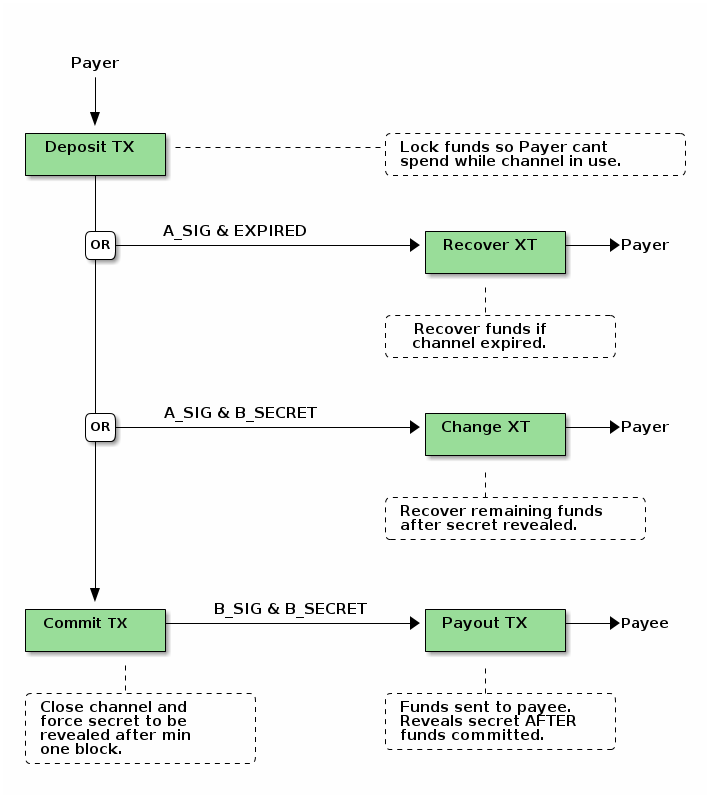
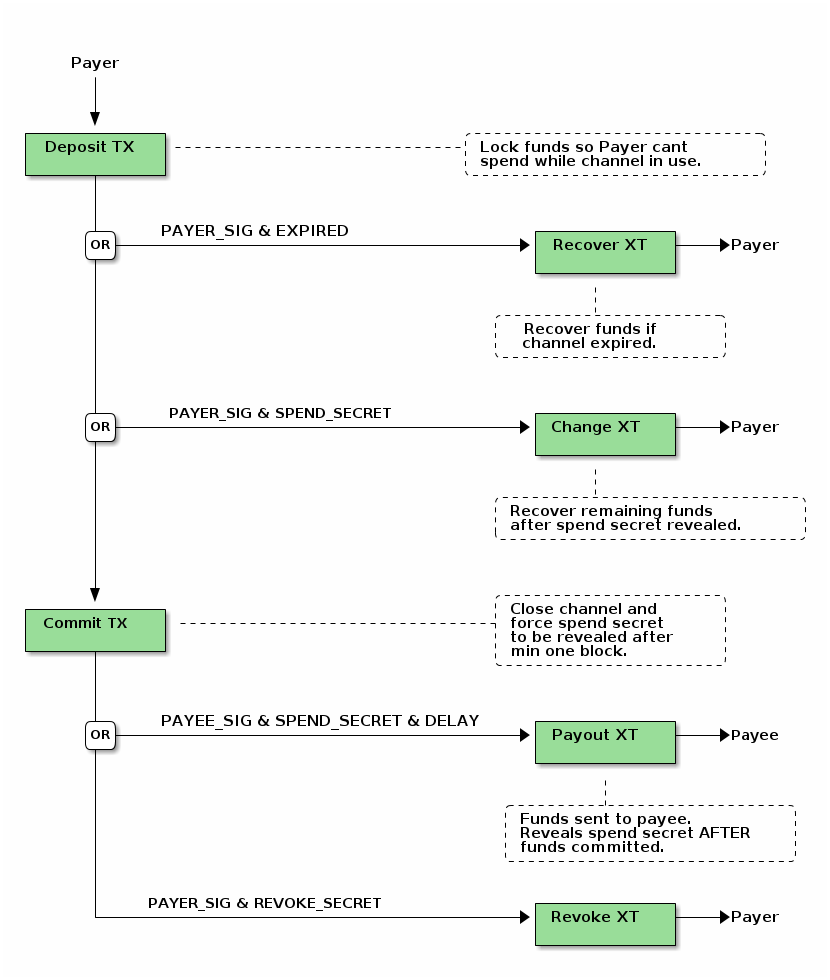
optimized design and spec

diff --git a/picopayments/scripts.py b/picopayments/scripts.py
@@ -3,18 +3,23 @@
 # License: MIT (see LICENSE file)
 
 
-import pycoin
+from pycoin.serialize import b2h
+from pycoin import encoding
+from pycoin.tx.script import tools
+from pycoin.tx.pay_to.ScriptType import ScriptType
+from pycoin.tx.pay_to import SUBCLASSES
 
 
+DEFAULT_EXPIRE_TIME = 5
 DEPOSIT_SCRIPT = """
     OP_IF
         2 {payer_pubkey} {payee_pubkey} 2 OP_CHECKMULTISIG
     OP_ELSE
         OP_IF
-            OP_HASH160 {payee_secret_hash} OP_EQUALVERIFY
+            OP_HASH160 {spend_secret_hash} OP_EQUALVERIFY
             {payer_pubkey} OP_CHECKSIG
         OP_ELSE
-            {expire_time} OP_CHECKSEQUENCEVERIFY OP_DROP
+            {expire_time} OP_NOP3 OP_DROP
             {payer_pubkey} OP_CHECKSIG
         OP_ENDIF
     OP_ENDIF
@@ -22,17 +27,23 @@ DEPOSIT_SCRIPT = """
 
 
 COMMIT_SCRIPT = """
-    OP_HASH160 {payee_secret_hash} OP_EQUALVERIFY {payee_pubkey} OP_CHECKSIG
+    OP_IF
+        OP_HASH160 {spend_secret_hash} OP_EQUALVERIFY
+        {payee_pubkey} OP_CHECKSIG
+    OP_ELSE
+        OP_HASH160 {revoke_secret_hash} OP_EQUALVERIFY
+        {payer_pubkey} OP_CHECKSIG
+    OP_ENDIF
 """
 
 
 def compile_deposit_script(payer_pubkey, payee_pubkey,
-                           recover_pubkey, expire_time):
+                           spend_secret_hash, expire_time):
     """
     Args:
         payer_pubkey (hexstr): TODO
         payee_pubkey (hexstr): TODO
-        recover_pubkey (hexstr): TODO
+        spend_secret_hash (hexstr): TODO
         expire_time (int): TODO
 
     Return:
@@ -41,22 +52,23 @@ def compile_deposit_script(payer_pubkey, payee_pubkey,
     script_text = DEPOSIT_SCRIPT.format(
         payer_pubkey=payer_pubkey,
         payee_pubkey=payee_pubkey,
-        recover_pubkey=recover_pubkey,
+        spend_secret_hash=spend_secret_hash,
         expire_time=str(expire_time)
     )
-    return pycoin.tx.script.tools.compile(script_text)
+    return tools.compile(script_text)
 
 
-def create_deposit_script(payer_sec, payee_sec, recover_sec, expire_time):
-    return compile_deposit_script(pycoin.serialize.b2h(payer_sec),
-                                  pycoin.serialize.b2h(payee_sec),
-                                  pycoin.serialize.b2h(recover_sec),
-                                  expire_time)
+def create_deposit_script(payer_sec, payee_sec, recover_sec,
+                          spend_secret_hash, expire_time):
+
+    return compile_deposit_script(b2h(payer_sec), b2h(payee_sec),
+                                  spend_secret_hash, expire_time)
 
 
-class ScriptMicropaymentChannel(pycoin.tx.pay_to.ScriptType.ScriptType):
+class ScriptMicropaymentChannel(ScriptType):
 
-    TEMPLATE = compile_deposit_script("OP_PUBKEY", "OP_PUBKEY", "OP_PUBKEY")
+    TEMPLATE = compile_deposit_script("OP_PUBKEY", "OP_PUBKEY",
+                                      "OP_PUBKEYHASH", DEFAULT_EXPIRE_TIME)
 
     def __init__(self, payer_sec, payee_sec, recover_sec):
         self.payer_sec = payer_sec
@@ -82,22 +94,22 @@ class ScriptMicropaymentChannel(pycoin.tx.pay_to.ScriptType.ScriptType):
             raise Exception("Missing parameters!")
 
         # solve for recover case
-        result = db.get(pycoin.encoding.hash160(self.recover_sec))
+        result = db.get(encoding.hash160(self.recover_sec))
         if result is not None:
             secret_exponent, public_pair, compressed = result
             sig = self._create_script_signature(secret_exponent, sign_value,
                                                 signature_type)
-            solution = pycoin.tx.script.tools.bin_script([sig])
+            solution = tools.bin_script([sig])
 
         # TODO solve for refund case
 
         return solution
 
     def __repr__(self):
-        script_text = pycoin.tx.script.tools.disassemble(self.script)
+        script_text = tools.disassemble(self.script)
         return "<ScriptMicropaymentChannel: {0}".format(script_text)
 
 
 # FIXME create decorater for this and commit to pycoin
 # monkey patch pycoin pay to script subclassis with our own
-pycoin.tx.pay_to.SUBCLASSES.insert(0, ScriptMicropaymentChannel)
+SUBCLASSES.insert(0, ScriptMicropaymentChannel)

diff --git a/picopayments/control.py b/picopayments/control.py
@@ -18,38 +18,16 @@ DEFAULT_COUNTERPARTY_RPC_USER = "rpc"
 DEFAULT_COUNTERPARTY_RPC_PASSWORD = "1234"
 
 
-def wif2sec(wif):
-    return pycoin.key.Key.from_text(wif).sec()
-
-
-def wif2address(wif):
-    return pycoin.key.Key.from_text(wif).address()
-
-
-def wif2secretexponent(wif):
-    return pycoin.key.Key.from_text(wif).secret_exponent()
-
-
-def sec2address(sec, netcode="BTC"):
-    prefix = pycoin.networks.address_prefix_for_netcode(netcode)
-    digest = pycoin.encoding.hash160(sec)
-    return pycoin.encoding.hash160_sec_to_bitcoin_address(digest, prefix)
-
-
-def script2address(script, netcode="BTC"):
-    return pycoin.tx.pay_to.address_for_pay_to_script(script, netcode=netcode)
-
-
 class Control(object):
 
     def __init__(self, asset, user=DEFAULT_COUNTERPARTY_RPC_USER,
-                 password=DEFAULT_COUNTERPARTY_RPC_PASSWORD, url=None,
+                 password=DEFAULT_COUNTERPARTY_RPC_PASSWORD, counterparty_url=None,
                  testnet=DEFAULT_TESTNET, dryrun=False):
 
         if testnet:
-            self.url = DEFAULT_COUNTERPARTY_RPC_TESTNET_URL
+            self.counterparty_url = DEFAULT_COUNTERPARTY_RPC_TESTNET_URL
         else:
-            self.url = DEFAULT_COUNTERPARTY_RPC_MAINNET_URL
+            self.counterparty_url = DEFAULT_COUNTERPARTY_RPC_MAINNET_URL
         self.testnet = testnet
         self.user = user
         self.password = password
@@ -60,7 +38,7 @@ class Control(object):
     def _rpc_call(self, payload):
         headers = {'content-type': 'application/json'}
         auth = HTTPBasicAuth(self.user, self.password)
-        response = requests.post(self.url, data=json.dumps(payload),
+        response = requests.post(self.counterparty_url, data=json.dumps(payload),
                                  headers=headers, auth=auth)
         response_data = json.loads(response.text)
         if "result" not in response_data:

diff --git a/picopayments/channel.py b/picopayments/channel.py
@@ -32,16 +32,28 @@ class Base(object):
 class Payer(Base):
 
     def __init__(self, asset, user=DEFAULT_COUNTERPARTY_RPC_USER,
-                 password=DEFAULT_COUNTERPARTY_RPC_PASSWORD, url=None,
-                 testnet=DEFAULT_TESTNET, dryrun=False):
-        self.control = Control(self, asset=asset, user=user, password=password,
-                               url=url, testnet=testnet, dryrun=dryrun)
+                 password=DEFAULT_COUNTERPARTY_RPC_PASSWORD,
+                 counterparty_url=None, testnet=DEFAULT_TESTNET, dryrun=False):
+
+        self.control = Control(asset, user=user, password=password,
+                               counterparty_url=counterparty_url,
+                               testnet=testnet, dryrun=dryrun)
 
 
 class Payee(Base):
 
     def __init__(self, asset, user=DEFAULT_COUNTERPARTY_RPC_USER,
-                 password=DEFAULT_COUNTERPARTY_RPC_PASSWORD, url=None,
-                 testnet=DEFAULT_TESTNET, dryrun=False):
-        self.control = Control(self, asset=asset, user=user, password=password,
-                               url=url, testnet=testnet, dryrun=dryrun)
+                 password=DEFAULT_COUNTERPARTY_RPC_PASSWORD,
+                 counterparty_url=None, testnet=DEFAULT_TESTNET, dryrun=False):
+
+        self.control = Control(asset, user=user, password=password,
+                               counterparty_url=counterparty_url,
+                               testnet=testnet, dryrun=dryrun)
+
+
+class Dual(object):
+
+    def __init__(self, asset, user=DEFAULT_COUNTERPARTY_RPC_USER,
+                 password=DEFAULT_COUNTERPARTY_RPC_PASSWORD,
+                 counterparty_url=None, testnet=DEFAULT_TESTNET, dryrun=False):
+        pass

diff --git a/example.py b/example.py
@@ -2,4 +2,30 @@
 # Copyright (c) 2016 Fabian Barkhau <fabian.barkhau@gmail.com>
 # License: MIT (see LICENSE file)
 
+
 import picopayments
+
+
+# counterparty setup
+counterparty_url = "http://127.0.0.1:14000/api/"
+asset = "A14456548018133352000"
+testnet = True
+dryrun = True
+
+
+# payer (pub key must be on the blockchain, required by counterparty)
+alice_wif = "cTvCnpvQJE3TvNejkWbnFA1z6jLJjB2xXXapFabGsazCz2QNYFQb"  # has funds
+alice_sec = picopayments.util.wif2sec(alice_wif)
+alice_address = picopayments.util.wif2address(alice_wif)
+alice_channel = picopayments.channel.Payer(
+    asset, counterparty_url=counterparty_url, testnet=testnet, dryrun=dryrun
+)
+
+
+# payee (pub key must be on the blockchain, required by counterparty)
+bob_wif = "cQYT6HjZTUrniAb96s5ktjvGGZNBjbhd6SicC7s49RLcBBXmx3cz"
+bob_sec = picopayments.util.wif2sec(bob_wif)
+bob_address = picopayments.util.wif2address(bob_wif)
+bob_channel = picopayments.channel.Payee(
+    asset, counterparty_url=counterparty_url, testnet=testnet, dryrun=dryrun
+)

diff --git a/picopayments/util.py b/picopayments/util.py
@@ -1,0 +1,23 @@
+import pycoin
+
+
+def wif2sec(wif):
+    return pycoin.key.Key.from_text(wif).sec()
+
+
+def wif2address(wif):
+    return pycoin.key.Key.from_text(wif).address()
+
+
+def wif2secretexponent(wif):
+    return pycoin.key.Key.from_text(wif).secret_exponent()
+
+
+def sec2address(sec, netcode="BTC"):
+    prefix = pycoin.networks.address_prefix_for_netcode(netcode)
+    digest = pycoin.encoding.hash160(sec)
+    return pycoin.encoding.hash160_sec_to_bitcoin_address(digest, prefix)
+
+
+def script2address(script, netcode="BTC"):
+    return pycoin.tx.pay_to.address_for_pay_to_script(script, netcode=netcode)

diff --git a/picopayments/__init__.py b/picopayments/__init__.py
@@ -4,6 +4,7 @@
 
 
 from .version import __version__  # NOQA
+from . import util  # NOQA
 from . import scripts  # NOQA
-from . import channel  # NOQA
 from . import control  # NOQA
+from . import channel  # NOQA

diff --git a/README.rst b/README.rst
@@ -18,7 +18,7 @@ PicoPayments
 .. _IssuesLink: https://github.com/F483/picopayments/issues
 
 
-Trustless unidirectional micropayment channels for counterparty assets ᕕ( ᐛ )ᕗ
+Trustless micropayment channels for counterparty assets ᕕ( ᐛ )ᕗ
 
 
 ============
@@ -34,9 +34,9 @@ Installation
 Usage
 =====
 
--------------------------
-Use fast native functions
--------------------------
+---------------------
+fast native functions
+---------------------
 
 There is experimental code that will call into OpenSSL for slow functions.
 To enable this, set (and export) environment variable PYCOIN_NATIVE=openssl.
@@ -70,10 +70,10 @@ The pay to script allows for three possible outcoms:
 
  - The payer can recover the deposit after a timeout if no commit was made.
  - Both parties commit and close the channel.
- - The payer collects the change after the payee publishes the secret.
+ - The payer collects the change after the payee publishes the spend secret.
 
-**The commit transaction secret must be the same as the deposit
-transaction secret!**
+**The commit transaction spend secret must be the same as the deposit
+transaction spend secret!**
 
 pay to script:
 
@@ -83,7 +83,7 @@ pay to script:
         2 <payer pubkey> <payee pubkey> 2 OP_CHECKMULTISIG
     OP_ELSE
         OP_IF
-            OP_HASH160 <payee secret hash> OP_EQUALVERIFY
+            OP_HASH160 <spend secret hash> OP_EQUALVERIFY
             <payer pubkey> OP_CHECKSIG
         OP_ELSE
             <expire time> OP_CHECKSEQUENCEVERIFY OP_DROP
@@ -112,15 +112,15 @@ Change Transaction
 ------------------
 
 After the commit transaction has been published on the blockchain, the
-payee must reveal the secret to spend the committed funds. The payer can
-then recover the change from the channel before it times out by using the
-revealed secret.
+payee must reveal the spend secret to spend the committed funds. The payer
+can then recover the change from the channel before it times out by using the
+revealed spend secret.
 
 script sig:
 
 ::
     
-    <payer signature> <payee secret> OP_TRUE OP_FALSE
+    <payer signature> <spend secret> OP_TRUE OP_FALSE
 
 ------------------
 Commit Transaction 
@@ -133,9 +133,9 @@ Every time the payer wishes to transfer funds to the payee, the output amount
 of the transaction is increased. The payee then signs and shares it.
 
 To ensure the payer can recover the change without having to wait for the
-channel to timeout, the payee must reveal the secret when spending the
-payout. **The commit transaction secret must be the same as the deposit
-transaction secret!**
+channel to timeout, the payee must reveal the spend secret when spending the
+payout. **The commit transaction spend secret must be the same as the deposit
+transaction spend secret!**
 
 script sig:
 
@@ -147,7 +147,13 @@ pay to script:
 
 ::
 
-    OP_HASH160 <payee secret hash> OP_EQUALVERIFY <payee pubkey> OP_CHECKSIG
+    OP_IF
+        OP_HASH160 <spend secret hash> OP_EQUALVERIFY
+        <payee pubkey> OP_CHECKSIG
+    OP_ELSE
+        OP_HASH160 <revoke secret hash> OP_EQUALVERIFY
+        <payer pubkey> OP_CHECKSIG
+    OP_ENDIF
 
 
 ------------------
@@ -155,13 +161,22 @@ Payout Transaction
 ------------------
 
 The payout transaction is used by the payee to spend the commited funds. In
-order to spend the funds the payee must reveal the secret, this ensures
+order to spend the funds the payee must reveal the spend secret, this ensures
 the payer can ecover the change.
 
 script sig:
 
 ::
     
-    <payee signature> <payee secret>
+    <payee signature> <spend secret> OP_TRUE
 
+    
+------------------
+Revoke Transaction 
+------------------
 
+script sig:
+
+::
+    
+    <payer signature> <revoke secret> OP_False
